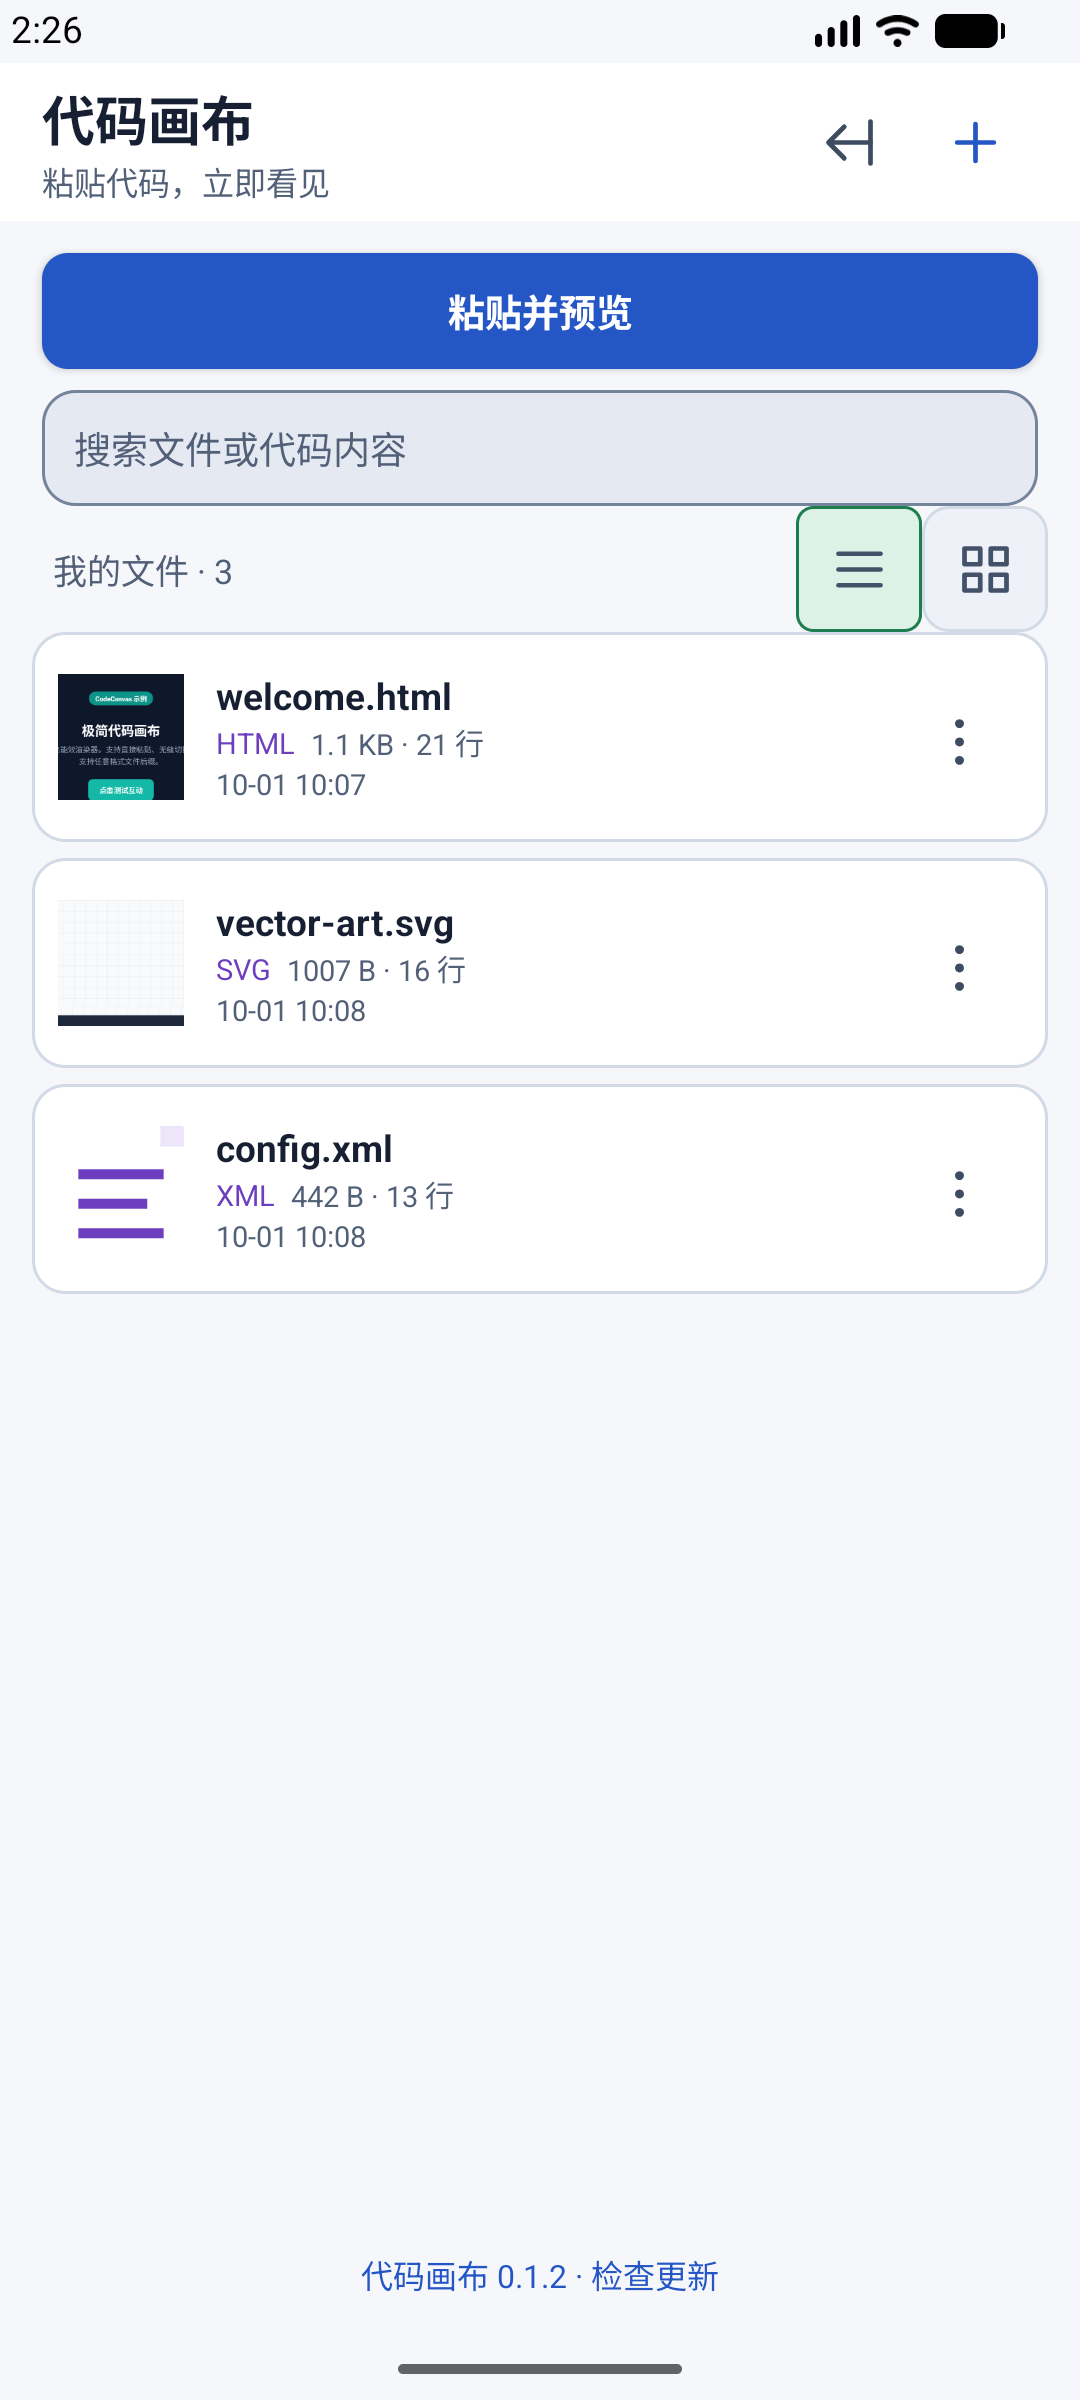
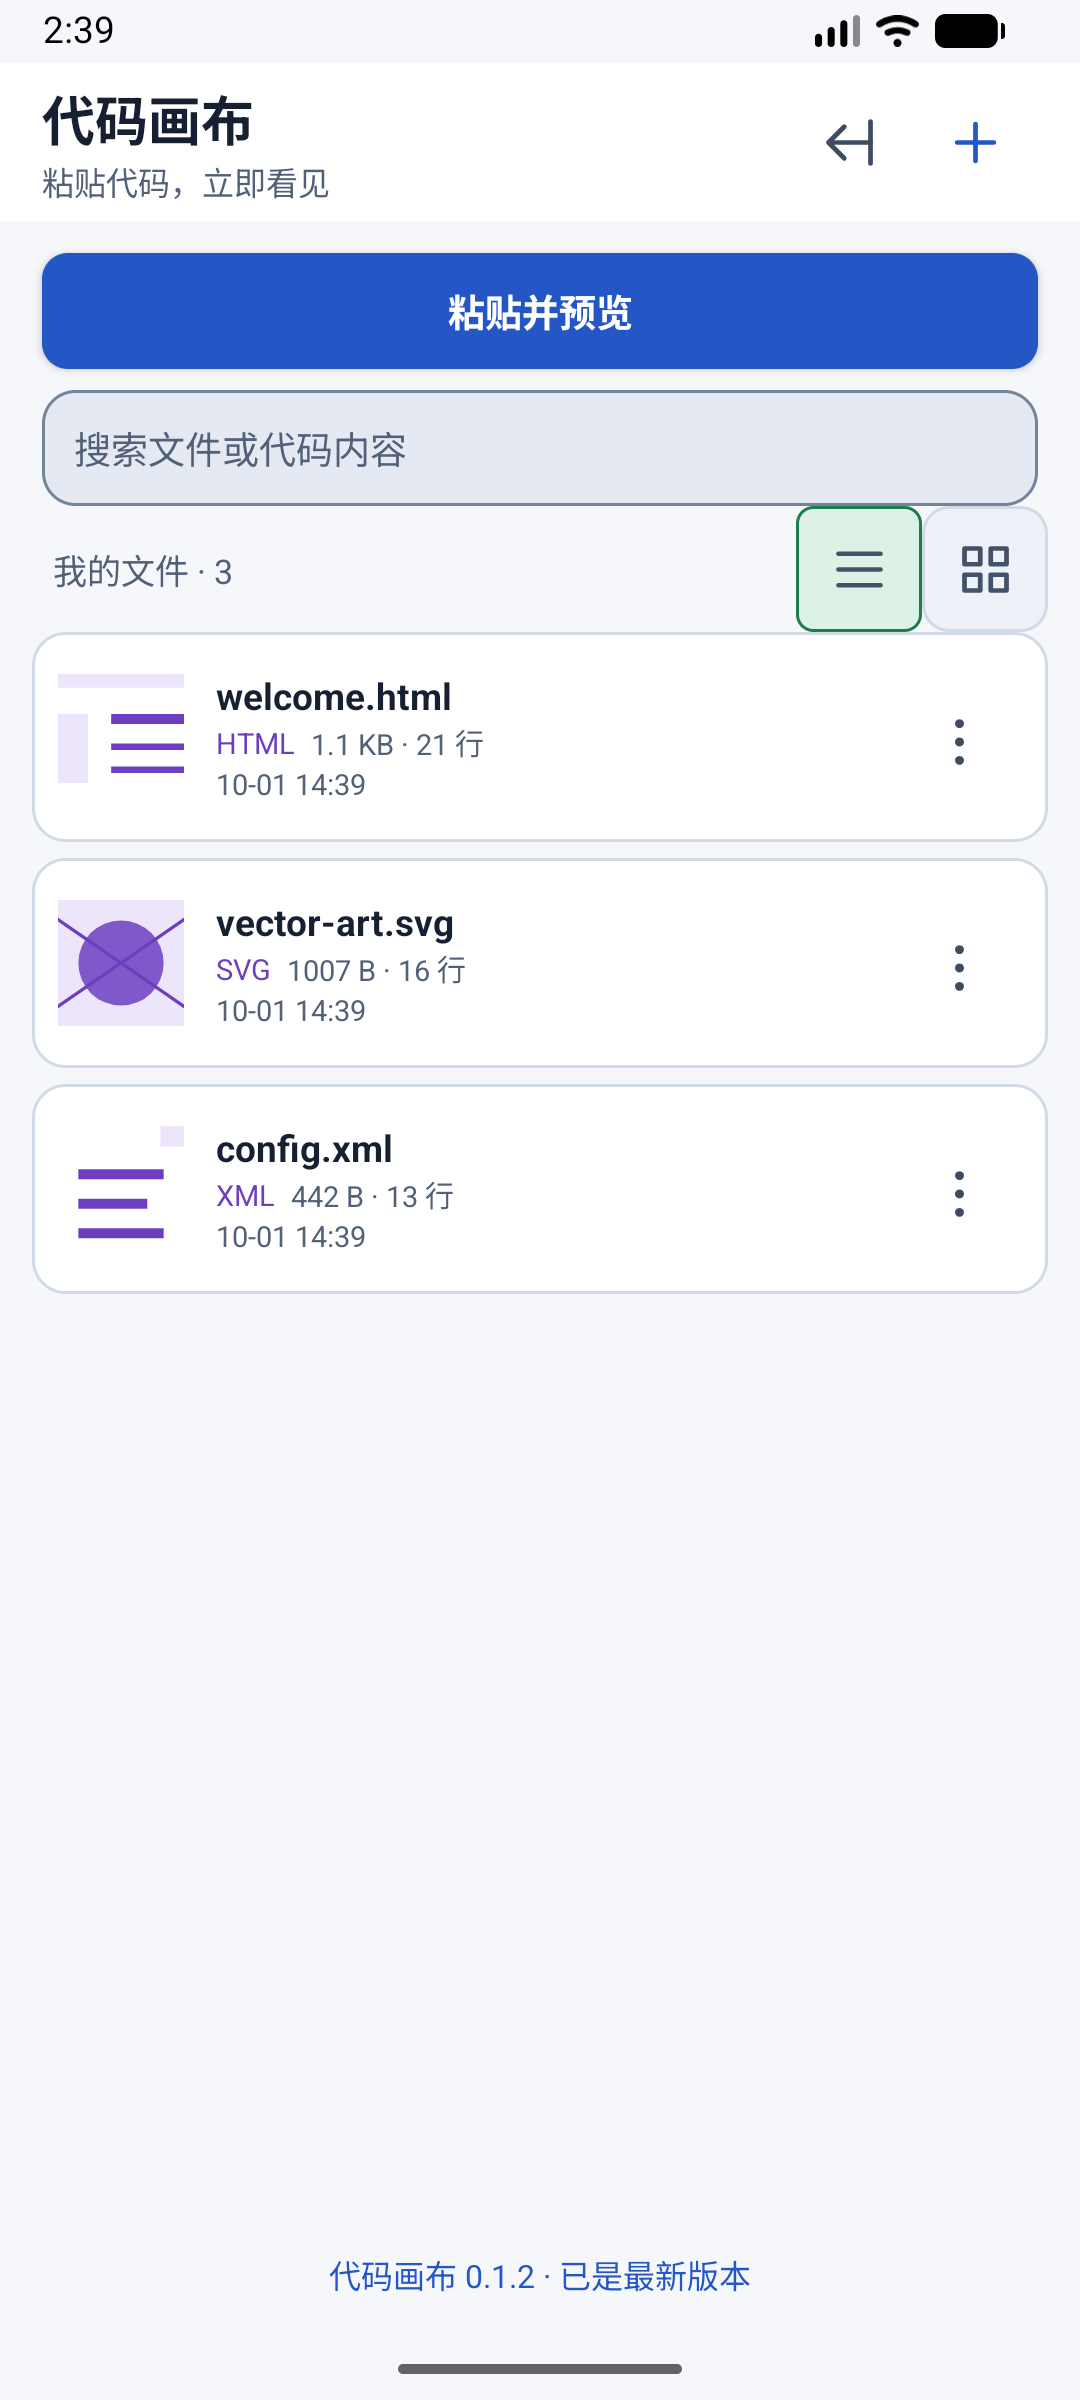
docs: record the real updater verification and the Play Protect limit
Evidence from the device run: the published 0.1.2 reports already-latest from the
live manifest; a locally built, unpublished same-certificate vc2 fixture flips it to
'new version available', the consent dialog shows the real manifest notes, the
download is verified, and the system installer recognises an in-place update. The
final write was blocked by Google Play Protect on the emulator, which the app must
not bypass; documented as an unproven step rather than claimed.

Also refreshed the home screenshot and added the update-flow captures.

diff --git a/docs/VERIFICATION.md b/docs/VERIFICATION.md
@@ -26,8 +26,21 @@
 ## 更新链路验收
 
 - `scripts/release.py` 只从**磁盘上真实存在的 APK** 计算字节数与 SHA-256，不接受手填。
-- `docs/update/latest.json` 在 Release 资产上传后生成并推送；回读原始地址确认真实可达且内容与 APK 一致。
+- 已发布资产 `code-canvas-0.1.2.apk`（70787 字节）的 GitHub digest 为 `sha256:b4325c04…e61634`，与本地文件、与 `docs/update/latest.json` 三者完全一致。
+- 从清单里的 `apkUrl` 公网实际下载：HTTP 200、一次跳转到 GitHub 资源主机、70787 字节、SHA-256 与清单一致（**MATCH**）。
 - 应用侧只接受正向递增的 `versionCode`，下载主机限定本仓库 Release / GitHub 资源域名，校验字节数、SHA-256、包名、versionCode、versionName 与签名证书后才调用系统安装器。
+
+### 真机（模拟器）实测更新链路
+
+1. 装已发布的 0.1.2 → 底部显示 **「代码画布 0.1.2 · 已是最新版本」**：证明真机确实从 `raw.githubusercontent.com` 取到了线上清单并完成解析与版本比较。
+2. 用**同签名、versionCode=2 的本地测试夹具**（仅本地构建，从未上传/发布）替换安装 → 底部变为 **「新版本 0.1.2 · 点击更新」**：证明「发现新版本」判定正确。
+3. 点击 → 弹出说明框，正文是清单里真实的 `notes` 与字节数（[截图](evidence/v0.1.2/update_offer_dialog.png)）；点「下载并安装」后从公网真实资产下载并完成校验。
+4. 首次安装未知来源应用被正确拦下，给出「安装包已校验。请在系统设置中允许代码画布安装应用，然后返回继续」的说明（[截图](evidence/v0.1.2/update_installer.png)）。
+5. 授权后应用自动继续，**系统安装器弹出「Update this app?」并识别为同一应用的就地更新**（[截图](evidence/v0.1.2/update_system_installer.png)）——说明大小 / SHA-256 / 包名 / versionCode / versionName / 签名证书全部通过。
+
+**未通过的一步（如实记录）**：点「Update」后，模拟器上的 **Google Play Protect 直接拦截**（先提示扫描，扫描后判定 "Harmful app blocked"），最终没有完成系统安装。这是系统级安全门，应用既无法也不应该绕过（本版不会去关闭 Play Protect 或未知来源设置）。自签名侧载包在装有 Play Protect 的设备上首次安装会出现这一提示，属正常现象。
+
+- 因此：**应用侧到「把校验通过的 APK 交给系统安装器」为止已全链路验证**；「系统安装器真正写盘完成」这一步被模拟器的 Play Protect 拦下，未取得成功证据。国内 ROM（如 HyperOS 多不带 Play Protect）通常不会出现该拦截，但仍需真机确认。
 
 ## 功能边界（本版不变）
 

diff --git a/docs/RELEASE-v0.1.2.md b/docs/RELEASE-v0.1.2.md
@@ -57,10 +57,12 @@
 - **模拟器仪器测试 20 项全绿**（独立 QA 模拟器 emulator-5556，Android 17，`am instrument` 全量执行 `OK (20 tests)`），覆盖：真实对比度（Rendered View 与资源两套）、列表/方格密度与跨重启记忆、代码↔预览切换不重载与不白屏、查找替换/符号插入真实可撤销、XML 结构视图不等待 WebView、粘贴与多段选择、剪贴板、缩略图缓存、更新清单解析与安全校验。
 - 实际签名正式版安装、日夜列表/方格、编辑器工具栏、预览、命名弹窗截图见 [docs/evidence/v0.1.2](evidence/v0.1.2/)。
 - `apksigner verify`：APK Signature Scheme v2 通过，签名者证书与 v0.1.0/v0.1.1 一致。
-- 应用内更新链路：`docs/update/latest.json` 由 `scripts/release.py` 依据**真实已上传的 APK** 生成，并回读校验哈希。
+- 应用内更新链路：`docs/update/latest.json` 由 `scripts/release.py` 依据**真实已上传的 APK** 生成，并回读校验哈希（GitHub 资产 digest、本地文件、清单三者一致；从清单里的公网 URL 实际下载 70787 字节，SHA-256 相符）。
+- 真机（模拟器）实测更新流程：已发布版显示「已是最新版本」；用同签名 versionCode=2 的本地夹具替换后显示「新版本 0.1.2 · 点击更新」→ 说明框（真实 notes）→ 下载并校验 → 权限引导 → **系统安装器弹出「Update this app?」识别为就地更新**（截图见 [docs/evidence/v0.1.2](evidence/v0.1.2/)）。
 
 ## 尚未验证 / 边界
 
+- 最后一步「系统安装器真正写盘完成」在测试模拟器上被 **Google Play Protect** 拦下（判定 "Harmful app blocked"）。这是系统级安全门，应用不会去绕过它。自签名侧载包在带 Play Protect 的设备上首次安装会出现该提示；国内 ROM（HyperOS 多不带 Play Protect）通常不受影响，但仍需你实机确认一遍。
 - **仍未在小米 Turbo 3 / HyperOS 真机验证**：输入法、手势导航、120Hz 动画、厂商后台限制下的更新安装都需要你实机试用。
 - 模拟器不能代表真机帧率；本版只保证「不重载、不白屏、有过渡」，没有承诺具体帧率数字。
 - 普通 XML 只做结构展示与校验，不是 Android 布局渲染或 XSLT。不会编译 Vue/React，也不运行 Python/Node.js。推荐让 AI 输出单个自包含 HTML（CSS/JS 内嵌、不依赖 CDN）。
